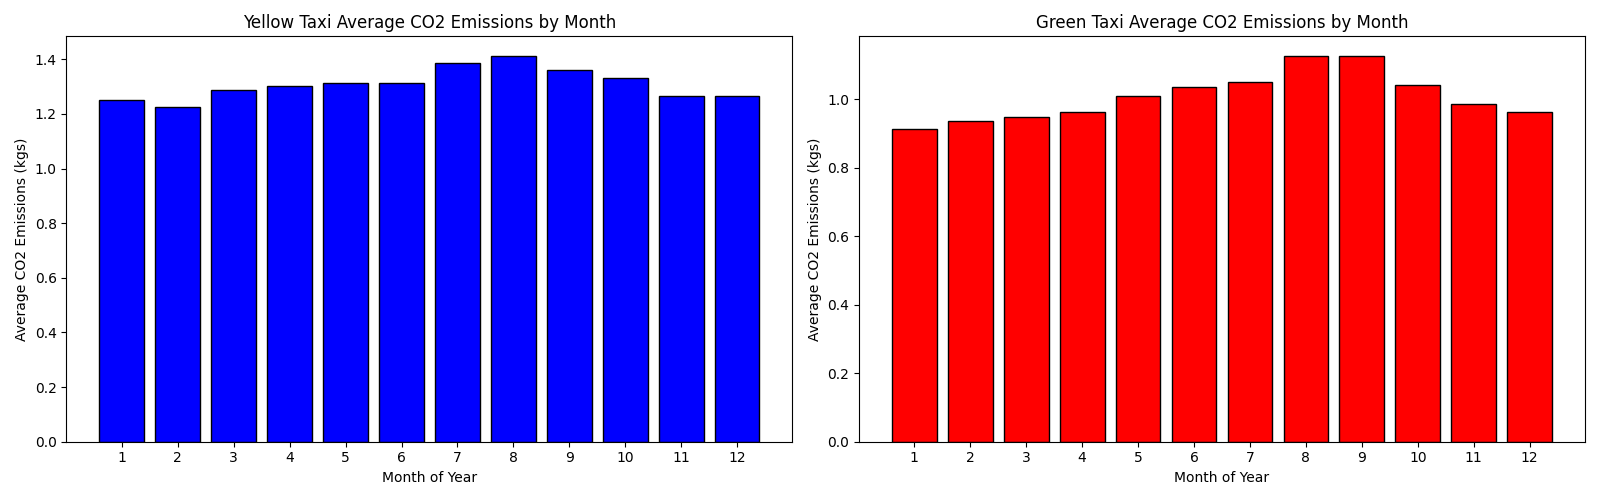
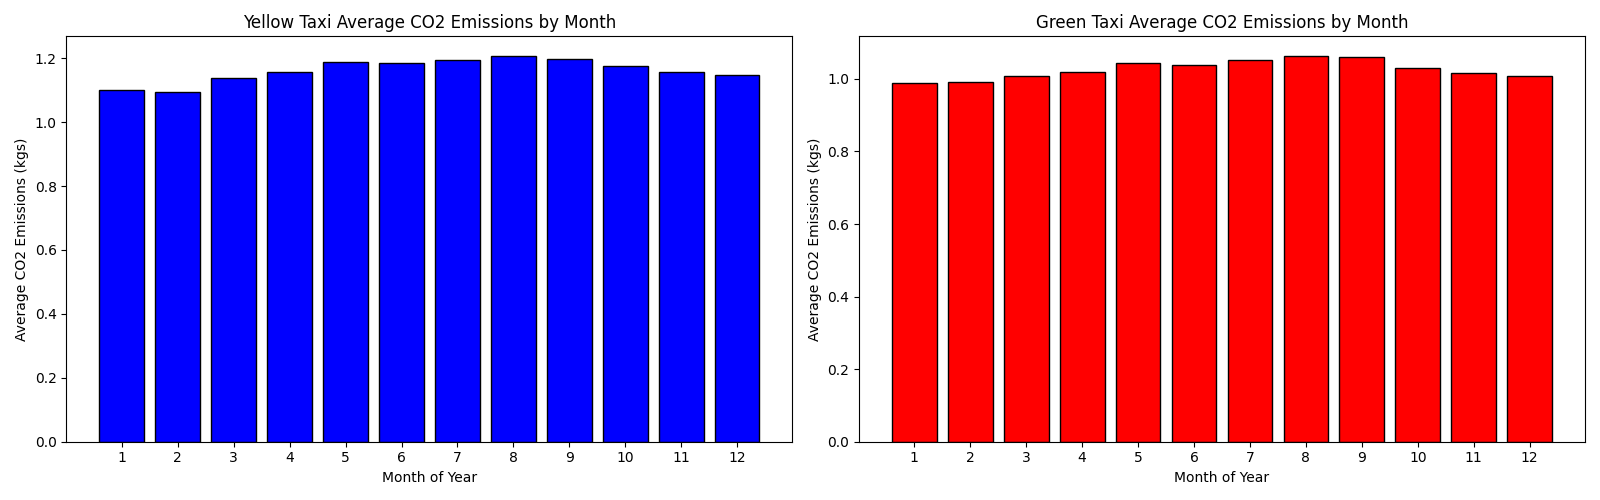
broadening analysis

diff --git a/analysis.py b/analysis.py
@@ -27,7 +27,6 @@ def run_analysis():
     min_avg_co2_yellow_hour = con.execute("""
             SELECT hour_of_day, AVG(trip_co2_kgs) as avg_co2_yellow
             FROM yellow_transform
-            WHERE tpep_pickup_datetime >= '2024-01-01' AND tpep_pickup_datetime < '2025-01-01'
             GROUP BY hour_of_day
             ORDER BY avg_co2_yellow ASC LIMIT 1
             ; """).fetchone() #limit 1 on asc finds lowest
@@ -37,7 +36,6 @@ def run_analysis():
     max_avg_co2_yellow_hour = con.execute("""
             SELECT hour_of_day, AVG(trip_co2_kgs) as avg_co2_yellow
             FROM yellow_transform
-            WHERE tpep_pickup_datetime >= '2024-01-01' AND tpep_pickup_datetime < '2025-01-01'
             GROUP BY hour_of_day
             ORDER BY avg_co2_yellow DESC LIMIT 1
             ; """).fetchone() #limit 1 on desc finds highest
@@ -47,7 +45,6 @@ def run_analysis():
     min_avg_co2_green_hour = con.execute("""
             SELECT hour_of_day, AVG(trip_co2_kgs) as avg_co2_green
             FROM green_transform
-            WHERE lpep_pickup_datetime >= '2024-01-01' AND lpep_pickup_datetime < '2025-01-01'
             GROUP BY hour_of_day
             ORDER BY avg_co2_green ASC LIMIT 1
             ; """).fetchone()
@@ -57,7 +54,6 @@ def run_analysis():
     max_avg_co2_green_hour = con.execute("""
             SELECT hour_of_day, AVG(trip_co2_kgs) as avg_co2_green
             FROM green_transform
-            WHERE lpep_pickup_datetime >= '2024-01-01' AND lpep_pickup_datetime < '2025-01-01'
             GROUP BY hour_of_day
             ORDER BY avg_co2_green DESC LIMIT 1
             ;
@@ -74,7 +70,6 @@ def run_analysis():
     min_avg_co2_yellow_day=con.execute("""
             SELECT day_of_week, AVG(trip_co2_kgs) as avg_co2_yellow
             FROM yellow_transform
-            WHERE tpep_pickup_datetime >= '2024-01-01' AND tpep_pickup_datetime < '2025-01-01'
             GROUP BY day_of_week
             ORDER BY avg_co2_yellow ASC LIMIT 1
             ; """).fetchone()
@@ -84,7 +79,6 @@ def run_analysis():
             SELECT day_of_week,
             AVG(trip_co2_kgs) as avg_co2_yellow
             FROM yellow_transform
-            WHERE tpep_pickup_datetime >= '2024-01-01' AND tpep_pickup_datetime < '2025-01-01'
             GROUP BY day_of_week
             ORDER BY avg_co2_yellow DESC LIMIT 1
             ; """).fetchone()
@@ -93,7 +87,6 @@ def run_analysis():
     min_avg_co2_green_day=con.execute("""      
             SELECT day_of_week, AVG(trip_co2_kgs) as avg_co2_green
             FROM green_transform
-            WHERE lpep_pickup_datetime >= '2024-01-01' AND lpep_pickup_datetime < '2025-01-01'
             GROUP BY day_of_week
             ORDER BY avg_co2_green ASC LIMIT 1
             ; """).fetchone()
@@ -103,7 +96,6 @@ def run_analysis():
     max_avg_co2_green_day=con.execute("""
             SELECT day_of_week, AVG(trip_co2_kgs) as avg_co2_green
             FROM green_transform
-            WHERE lpep_pickup_datetime >= '2024-01-01' AND lpep_pickup_datetime < '2025-01-01'
             GROUP BY day_of_week
             ORDER BY avg_co2_green DESC LIMIT 1
             ;
@@ -119,7 +111,6 @@ def run_analysis():
     min_avg_co2_yellow_week=con.execute("""
                 SELECT week_of_year, AVG(trip_co2_kgs) as avg_co2_yellow
                 FROM yellow_transform
-                WHERE tpep_pickup_datetime >= '2024-01-01' AND tpep_pickup_datetime < '2025-01-01'
                 GROUP BY week_of_year
                 ORDER BY avg_co2_yellow ASC  LIMIT 1
                 ;""").fetchone()
@@ -128,7 +119,6 @@ def run_analysis():
     max_avg_co2_yellow_week=con.execute("""
                 SELECT week_of_year, AVG(trip_co2_kgs) as avg_co2_yellow
                 FROM yellow_transform
-                WHERE tpep_pickup_datetime >= '2024-01-01' AND tpep_pickup_datetime < '2025-01-01'
                 GROUP BY week_of_year
                 ORDER BY avg_co2_yellow DESC LIMIT 1
                 ;""").fetchone()
@@ -137,7 +127,6 @@ def run_analysis():
     min_avg_co2_green_week=con.execute("""
                 SELECT week_of_year, AVG(trip_co2_kgs) as avg_co2_green
                 FROM green_transform
-                WHERE lpep_pickup_datetime >= '2024-01-01' AND lpep_pickup_datetime < '2025-01-01'
                 GROUP BY week_of_year
                 ORDER BY avg_co2_green ASC LIMIT 1
                 ;""").fetchone()
@@ -146,7 +135,6 @@ def run_analysis():
     max_avg_co2_green_week=con.execute("""
                 SELECT week_of_year, AVG(trip_co2_kgs) as avg_co2_green 
                 FROM green_transform
-                WHERE lpep_pickup_datetime >= '2024-01-01' AND lpep_pickup_datetime < '2025-01-01'
                 GROUP BY week_of_year
                 ORDER BY avg_co2_green DESC LIMIT 1
                 ;
@@ -162,7 +150,6 @@ def run_analysis():
     min_avg_co2_yellow_month=con.execute("""
             SELECT month_of_year, AVG(trip_co2_kgs) as avg_co2_yellow
             FROM yellow_transform
-            WHERE tpep_pickup_datetime >= '2024-01-01' AND tpep_pickup_datetime < '2025-01-01'
             GROUP BY month_of_year
             ORDER BY avg_co2_yellow ASC LIMIT 1
             ;""").fetchone()
@@ -171,7 +158,6 @@ def run_analysis():
     max_avg_co2_yellow_month=con.execute("""   
             SELECT month_of_year, AVG(trip_co2_kgs) as avg_co2_yellow
             FROM yellow_transform
-            WHERE tpep_pickup_datetime >= '2024-01-01' AND tpep_pickup_datetime < '2025-01-01'
             GROUP BY month_of_year
             ORDER BY avg_co2_yellow DESC LIMIT 1
             ;""").fetchone()
@@ -180,7 +166,6 @@ def run_analysis():
     min_avg_co2_green_month=con.execute("""
             SELECT month_of_year, AVG(trip_co2_kgs) as avg_co2_green
             FROM green_transform
-            WHERE lpep_pickup_datetime >= '2024-01-01' AND lpep_pickup_datetime < '2025-01-01'
             GROUP BY month_of_year
             ORDER BY avg_co2_green ASC LIMIT 1
             ; """).fetchone()
@@ -189,7 +174,6 @@ def run_analysis():
     max_avg_co2_green_month=con.execute("""
             SELECT month_of_year, AVG(trip_co2_kgs) as avg_co2_green
             FROM green_transform
-            WHERE lpep_pickup_datetime >= '2024-01-01' AND lpep_pickup_datetime < '2025-01-01'
             GROUP BY month_of_year
             ORDER BY avg_co2_green DESC LIMIT 1
             ;
@@ -207,14 +191,12 @@ def run_analysis():
     yellow_data = con.execute("""
         SELECT month_of_year, AVG(trip_co2_kgs) as avg_co2_yellow
         FROM yellow_transform
-        WHERE tpep_pickup_datetime >= '2024-01-01' AND tpep_pickup_datetime < '2025-01-01'
         GROUP BY month_of_year
         ORDER BY month_of_year ASC;
         """).fetchall()
     green_data = con.execute("""
         SELECT month_of_year, AVG(trip_co2_kgs) as avg_co2_green
         FROM green_transform
-        WHERE lpep_pickup_datetime >= '2024-01-01' AND lpep_pickup_datetime < '2025-01-01'
         GROUP BY month_of_year
         ORDER BY month_of_year ASC;
         """).fetchall()
